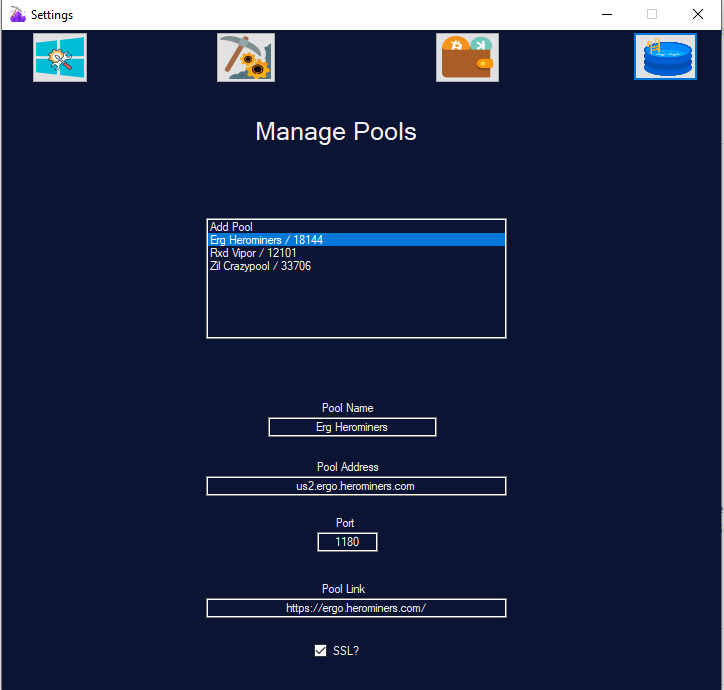
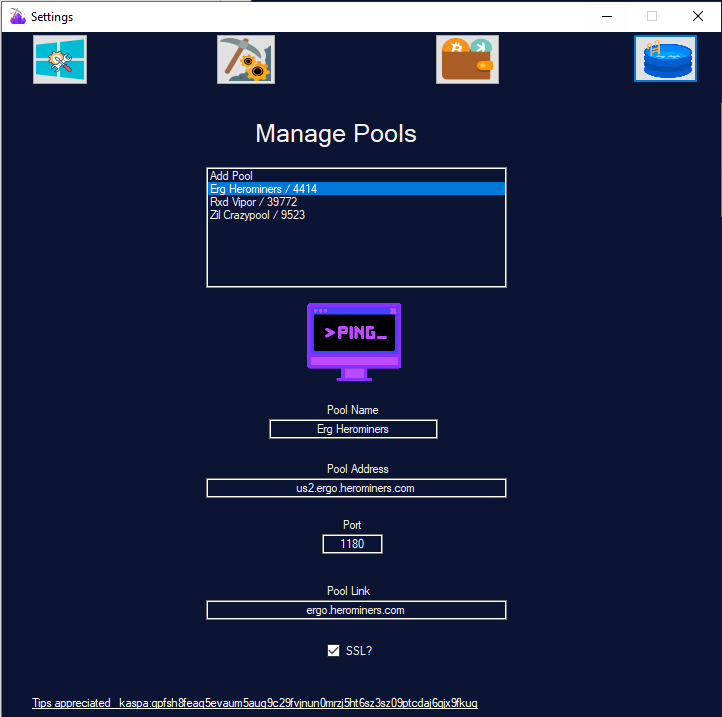
fix pool links not opening

diff --git a/Gui_Miner/Forms/Form1.cs b/Gui_Miner/Forms/Form1.cs
@@ -370,8 +370,10 @@ namespace Gui_Miner
                             if (!string.IsNullOrEmpty(poolLink1) && Uri.IsWellFormedUriString(poolLink1, UriKind.Absolute))
                             {
                                 // Open the default web browser with the specified URL
+                                Process.Start(poolLink1);
+                            } 
+                            else if(!string.IsNullOrEmpty(poolLink1))
                                 Process.Start(AddHttpsIfNeeded(poolLink1));
-                            }
                         };
 
                         // Try to get pool link 2
@@ -389,8 +391,10 @@ namespace Gui_Miner
                             if (!string.IsNullOrEmpty(poolLink2) && Uri.IsWellFormedUriString(poolLink2, UriKind.Absolute))
                             {
                                 // Open the default web browser with the specified URL
-                                Process.Start(AddHttpsIfNeeded(poolLink2));
+                                Process.Start(poolLink2);
                             }
+                            else if (!string.IsNullOrEmpty(poolLink2))
+                                Process.Start(AddHttpsIfNeeded(poolLink2));
                         };
 
                         // Try to get pool link 3
@@ -408,8 +412,10 @@ namespace Gui_Miner
                             if (!string.IsNullOrEmpty(poolLink3) && Uri.IsWellFormedUriString(poolLink3, UriKind.Absolute))
                             {
                                 // Open the default web browser with the specified URL
-                                Process.Start(AddHttpsIfNeeded(poolLink3));
+                                Process.Start(poolLink3);
                             }
+                            else if (!string.IsNullOrEmpty(poolLink3))
+                                Process.Start(AddHttpsIfNeeded(poolLink3));
                         };
 
                         // Add pool links if they're not empty
